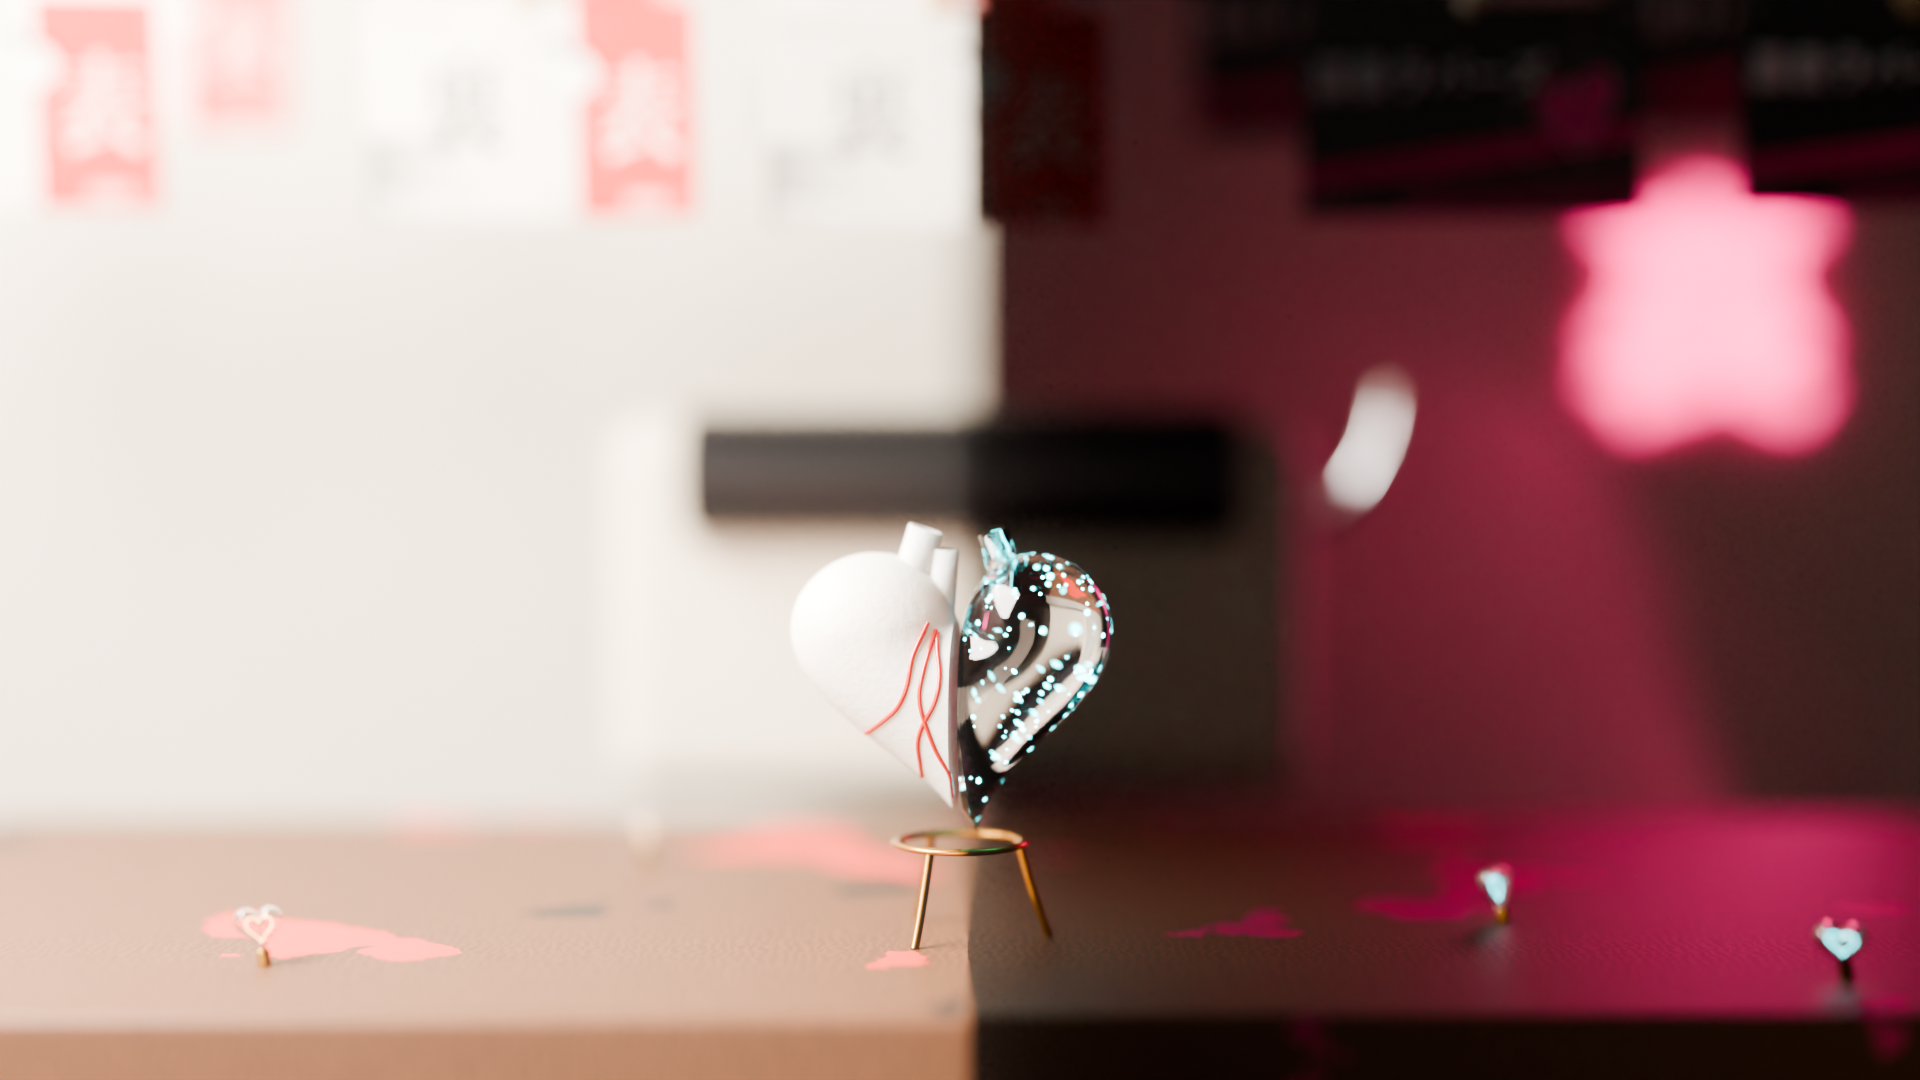
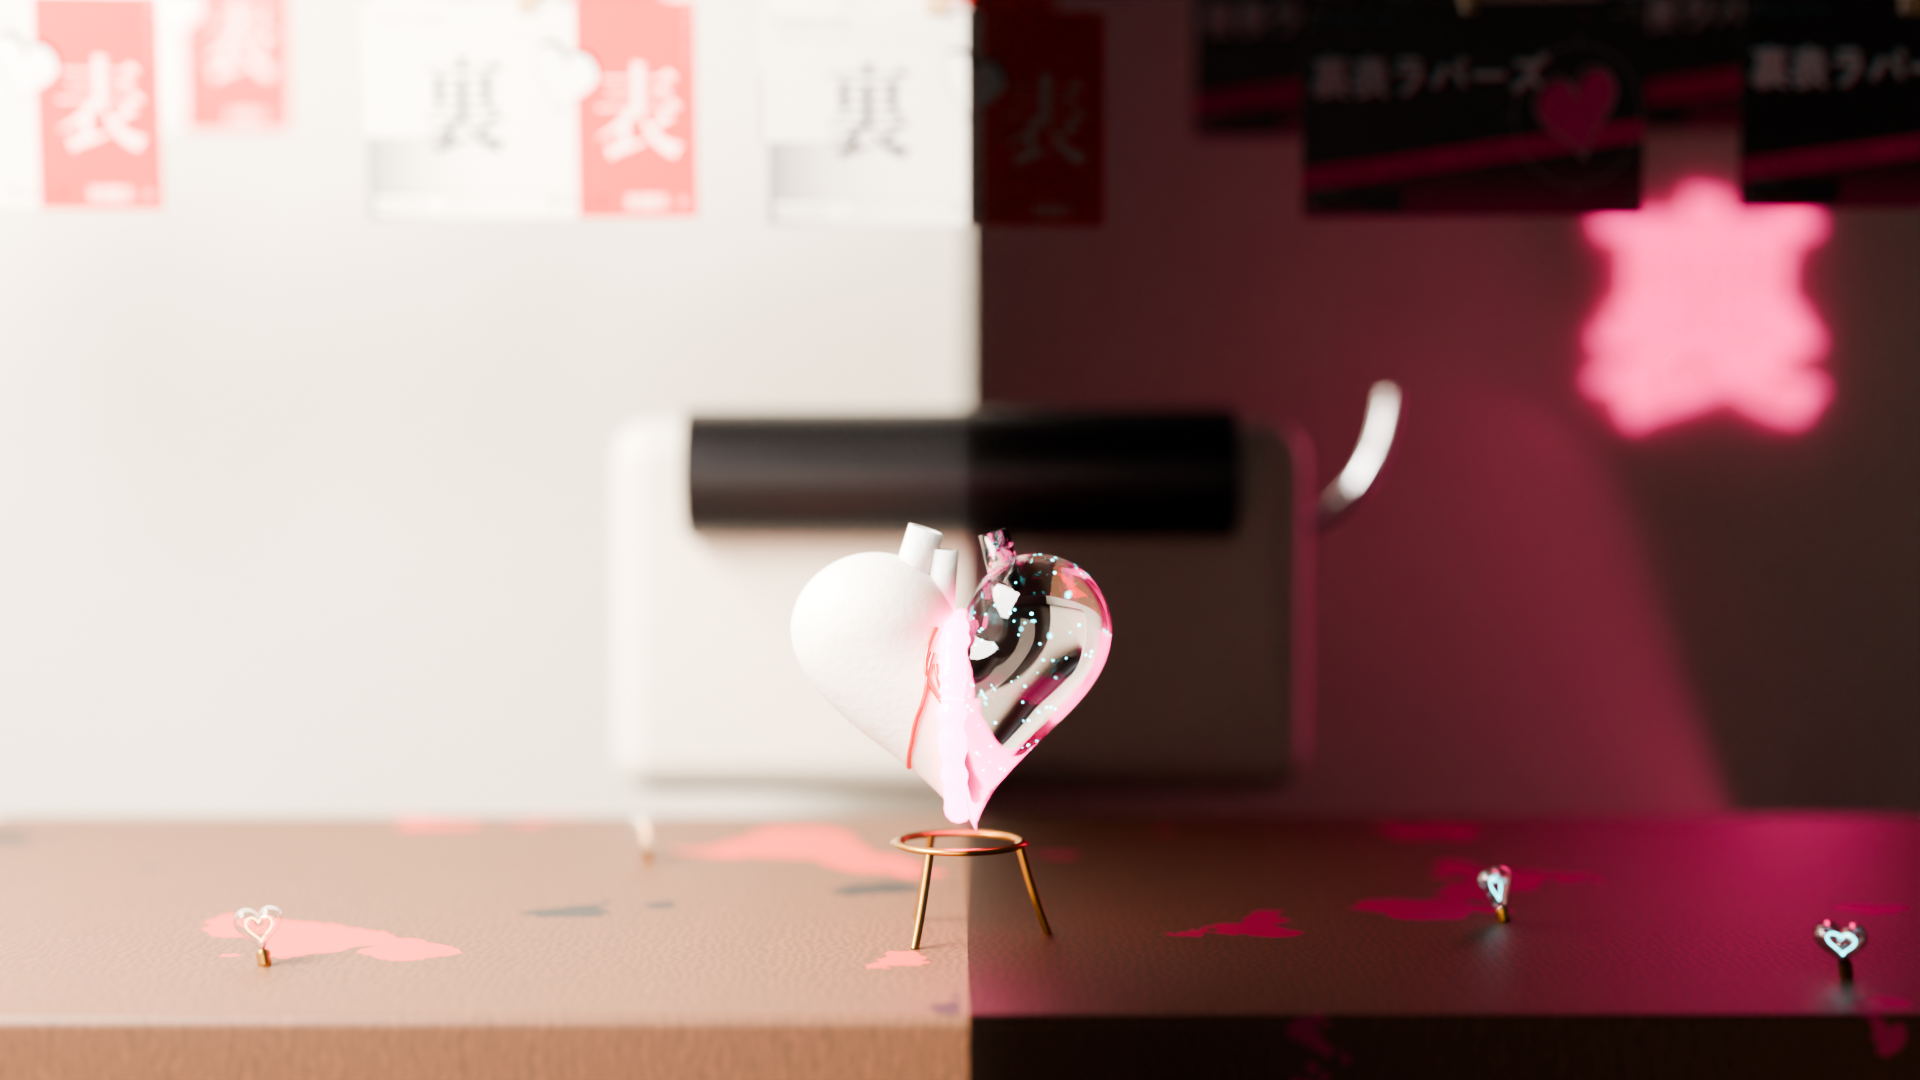
S3: seam swept as a tube (the Skin modifier came out flat), focus on the seam, quieter night side
The resin seam is the heart's x = 0 cross-section walked into a loop and swept as a cyclic tube.
Macro focuses on the seam at f/8, wide at f/4; the neon, pink spill, haze and cyan motes are toned down
so the night half reads dark; the three-quarter shot renders at twice the samples.

diff --git a/scripts/assets.py b/scripts/assets.py
@@ -230,8 +230,8 @@ def lathe(name, profile, segments=64, mats=(), parent=None):
     return _obj(name, mesh, mats, parent)
 
 
-def tube_along(name, points, radius, mats=(), parent=None, resolution=6):
-    """A curve through points with a round bevel (vessels, wires, cables)."""
+def tube_along(name, points, radius, mats=(), parent=None, resolution=6, cyclic=False, radii=None):
+    """A curve through points with a round bevel (vessels, wires, cables). radii scales the bevel per point."""
     cu = bpy.data.curves.new(name, "CURVE")
     cu.dimensions = "3D"
     cu.bevel_depth = radius
@@ -239,9 +239,12 @@ def tube_along(name, points, radius, mats=(), parent=None, resolution=6):
     cu.use_fill_caps = True
     sp = cu.splines.new("NURBS")
     sp.points.add(len(points) - 1)
-    for p, co in zip(sp.points, points):
+    for i, (p, co) in enumerate(zip(sp.points, points)):
         p.co = (*co, 1)
-    sp.use_endpoint_u = True
+        if radii is not None:
+            p.radius = radii[i]
+    sp.use_cyclic_u = cyclic
+    sp.use_endpoint_u = not cyclic
     sp.order_u = min(4, len(points))
     obj = bpy.data.objects.new(name, cu)
     for mt in mats:
@@ -309,29 +312,35 @@ def uraomote_heart(width=0.045, seed=3):
         sub = o.modifiers.new("sub", "SUBSURF")
         sub.levels, sub.render_levels = 1, 2
 
-    # resin seam: the cross-section at x = 0, a little proud of the surface, glowing pink
+    # resin seam: the cross-section at x = 0, walked into ordered loops and swept as a tube that stands
+    # proud of both halves, glowing pink (kintsugi). A Skin modifier on this loop came out flat in X.
     bm = bmesh.new()
     bm.from_mesh(base)
     res = bmesh.ops.bisect_plane(bm, geom=bm.verts[:] + bm.edges[:] + bm.faces[:], plane_co=(0, 0, 0),
                                  plane_no=(1, 0, 0))
     cut = [e for e in res["geom_cut"] if isinstance(e, bmesh.types.BMEdge)]
-    keep = set(cut)
-    for e in list(bm.edges):
-        if e not in keep:
-            bm.edges.remove(e)
-    for v in list(bm.verts):
-        if not v.link_edges:
-            bm.verts.remove(v)
-    seam_mesh = bpy.data.meshes.new("seam")
-    bm.to_mesh(seam_mesh)
+    nbr = {}
+    for e in cut:
+        a, b = e.verts
+        nbr.setdefault(a, []).append(b)
+        nbr.setdefault(b, []).append(a)
+    seen = set()
+    seam_mat = emissive("#FF3D8B", 22.0)
+    for start in list(nbr):
+        if start in seen:
+            continue
+        loop, prev, cur = [], None, start
+        while cur is not None and cur not in seen:
+            seen.add(cur)
+            loop.append(cur.co.copy())
+            nxt = [v for v in nbr[cur] if v is not prev and v not in seen]
+            prev, cur = cur, (nxt[0] if nxt else None)
+        if len(loop) < 8:
+            continue
+        pts = [tuple(c) for c in loop[::2]]
+        radii = [rnd.uniform(0.75, 1.3) for _ in pts]
+        tube_along("heart_seam", pts, s * 0.075, [seam_mat], root, resolution=4, cyclic=True, radii=radii)
     bm.free()
-    seam = _obj("heart_seam", seam_mesh, [emissive("#FF3D8B", 70.0)], root)
-    sk = seam.modifiers.new("skin", "SKIN")
-    for v in seam.data.skin_vertices[0].data:
-        r = s * rnd.uniform(0.055, 0.085)
-        v.radius = (r, r)
-    seam.modifiers.new("sub", "SUBSURF").render_levels = 2
-    _ = sk
 
     # glaze vessels on the porcelain face (front, +Z) and back: meander down from the top cleft
     # One BVH per half from the base mesh, reused for every ray. Object.ray_cast rebuilds a BVH on each
@@ -385,7 +394,7 @@ def uraomote_heart(width=0.045, seed=3):
     # trapped cyan motes inside the glass half
     motes = bmesh.new()
     count = 0
-    while count < 160:
+    while count < 90:
         x, y = rnd.uniform(0.05, 0.9) * s, rnd.uniform(-0.8, 0.8) * s
         loc, _n, _i, _d = bvh_right.ray_cast(Vector((x, y, 2 * s)), Vector((0, 0, -1)), 4 * s)
         if loc is None:
@@ -394,14 +403,14 @@ def uraomote_heart(width=0.045, seed=3):
         if top < 0.12 * s:
             continue
         z = rnd.uniform(-0.75, 0.75) * top
-        r = s * rnd.uniform(0.006, 0.016)
+        r = s * rnd.uniform(0.004, 0.011)
         bmesh.ops.create_icosphere(motes, subdivisions=1, radius=r,
                                    matrix=__import__("mathutils").Matrix.Translation((x, y, z)))
         count += 1
     mm = bpy.data.meshes.new("motes")
     motes.to_mesh(mm)
     motes.free()
-    _obj("heart_motes", mm, [emissive("#34E3E8", 40.0)], root)
+    _obj("heart_motes", mm, [emissive("#34E3E8", 18.0)], root)
 
     root.rotation_euler = (math.radians(90), 0, 0)   # stand up, front faces -Y
     bpy.data.meshes.remove(base)

diff --git a/scripts/s3_workshop.py b/scripts/s3_workshop.py
@@ -22,6 +22,8 @@ argv = sys.argv[sys.argv.index("--") + 1:] if "--" in sys.argv else []
 OUT = argv[0] if argv else os.path.join(ROOT, "renders", "s3")
 SHOTS = argv[1:] or ["wide", "macro", "three"]
 BENCH_TOP = 0.072
+BASE_SAMPLES = int(os.environ.get('SAMPLES', 256))
+SHOT_SAMPLES = {"three": BASE_SAMPLES * 2}   # its out-of-focus haze is the noisiest
 
 
 def cycles(samples=int(os.environ.get('SAMPLES', 256))):
@@ -160,14 +162,14 @@ def build():
     neon.data.bevel_depth = 0.0012
     neon.data.offset = -0.0
     neon.data.materials.clear()
-    neon.data.materials.append(A.emissive("#FF3D8B", 6.0))
+    neon.data.materials.append(A.emissive("#FF3D8B", 3.0))
     neon.rotation_euler = (math.radians(90), 0, 0)
     neon.location = (0.17, 0.248, 0.165)
 
     # lights. Day: a large north-window softbox from the left. Night: neon + pink bounce + cyan from the heart.
     area_light("north_window", (-0.32, -0.08, 0.32), (-0.04, 0.05, BENCH_TOP), 0.35, 6000, 22.0)
     area_light("paper_bounce", (-0.1, -0.35, 0.1), (0.0, 0.0, BENCH_TOP + 0.02), 0.2, 4800, 1.2)
-    area_light("neon_spill", (0.17, 0.23, 0.165), (0.1, 0.0, BENCH_TOP), 0.09, 6500, 0.08, size_y=0.06).data.color = \
+    area_light("neon_spill", (0.17, 0.23, 0.165), (0.1, 0.0, BENCH_TOP), 0.09, 6500, 0.03, size_y=0.06).data.color = \
         tuple(c for c in m.srgb("#FF3D8B")[:3])
     rim = area_light("rim_pink", (0.18, 0.22, 0.16), (0.0, 0.0, BENCH_TOP + 0.03), 0.03, 6500, 0.1)
     rim.data.color = tuple(c for c in m.srgb("#FF3D8B")[:3])
@@ -190,7 +192,7 @@ def build():
         if n.type == "BSDF_PRINCIPLED":
             nt.nodes.remove(n)
     vol = nt.nodes.new("ShaderNodeVolumePrincipled")
-    vol.inputs["Density"].default_value = 0.12
+    vol.inputs["Density"].default_value = 0.06
     out = next(n for n in nt.nodes if n.type == "OUTPUT_MATERIAL")
     nt.links.new(vol.outputs[0], out.inputs["Volume"])
     haze = A.rounded_box("haze", (0.78, 0.6, 0.44), 0.0, [haze_mat])
@@ -221,12 +223,13 @@ def main():
     heart = build()
     scene = bpy.context.scene
     hc = Vector((0, 0.0, BENCH_TOP + 0.033))
+    seam = Vector((0.0, -0.011, hc.z + 0.002))   # the resin seam where it crosses the front face
     focus = bpy.data.objects.new("focus", None)
     m._link(focus)
     focus.location = (0.0, -0.012, hc.z + 0.004)
     cams = {
-        "wide": camera("wide", (0.0, -0.36, BENCH_TOP + 0.07), (0.0, 0.08, BENCH_TOP + 0.05), 50, 1.8, focus),
-        "macro": camera("macro", (0.022, -0.16, hc.z + 0.012), tuple(hc), 100, 2.8, focus),
+        "wide": camera("wide", (0.0, -0.36, BENCH_TOP + 0.07), (0.0, 0.08, BENCH_TOP + 0.05), 50, 4.0, focus),
+        "macro": camera("macro", (0.03, -0.17, seam.z + 0.014), tuple(seam), 100, 8.0, focus),
         "three": camera("three", (-0.16, -0.2, BENCH_TOP + 0.11), (0.0, 0.02, BENCH_TOP + 0.03), 85, 2.0, focus),
     }
     # autofocus: the first surface hit on the ray from each camera to the heart's centre
@@ -235,7 +238,7 @@ def main():
     for cam in cams.values():
         cam.data.dof.focus_object = None
         origin = cam.location.copy()
-        d = (hc - origin).normalized()
+        d = (seam - origin).normalized()
         p, dist = origin.copy(), None
         for _ in range(16):   # skip the haze container and the split flag, which the camera doesn't see
             hit, loc, _n, _i, ob, _mx = scene.ray_cast(deps, p, d)
@@ -246,12 +249,13 @@ def main():
                 continue
             dist = (loc - origin).length
             break
-        cam.data.dof.focus_distance = dist if dist else (hc - origin).length
+        cam.data.dof.focus_distance = dist if dist else (seam - origin).length
         print(f"focus {cam.name}: {cam.data.dof.focus_distance * 1000:.1f} mm")
     os.makedirs(OUT, exist_ok=True)
     bpy.ops.wm.save_as_mainfile(filepath=os.path.join(os.path.abspath(OUT), "s3_workshop.blend"))
     for name in SHOTS:
         scene.camera = cams[name]
+        scene.cycles.samples = SHOT_SAMPLES.get(name, BASE_SAMPLES)
         scene.render.filepath = os.path.join(os.path.abspath(OUT), f"s3_{name}.png")
         bpy.ops.render.render(write_still=True)
     _ = heart
